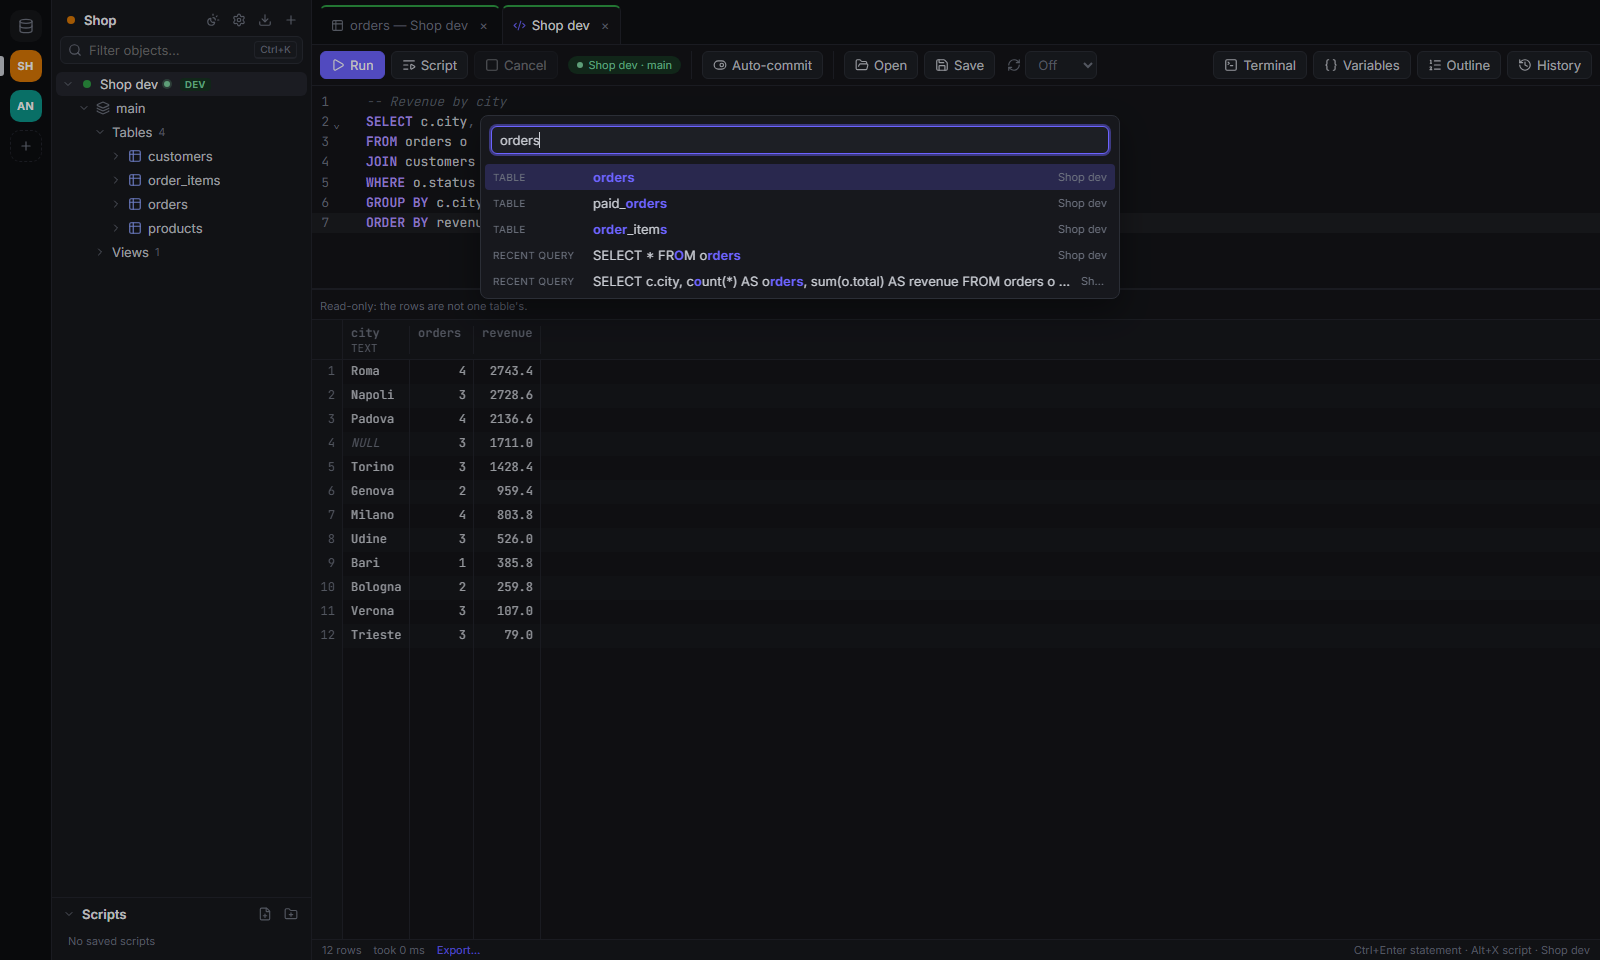
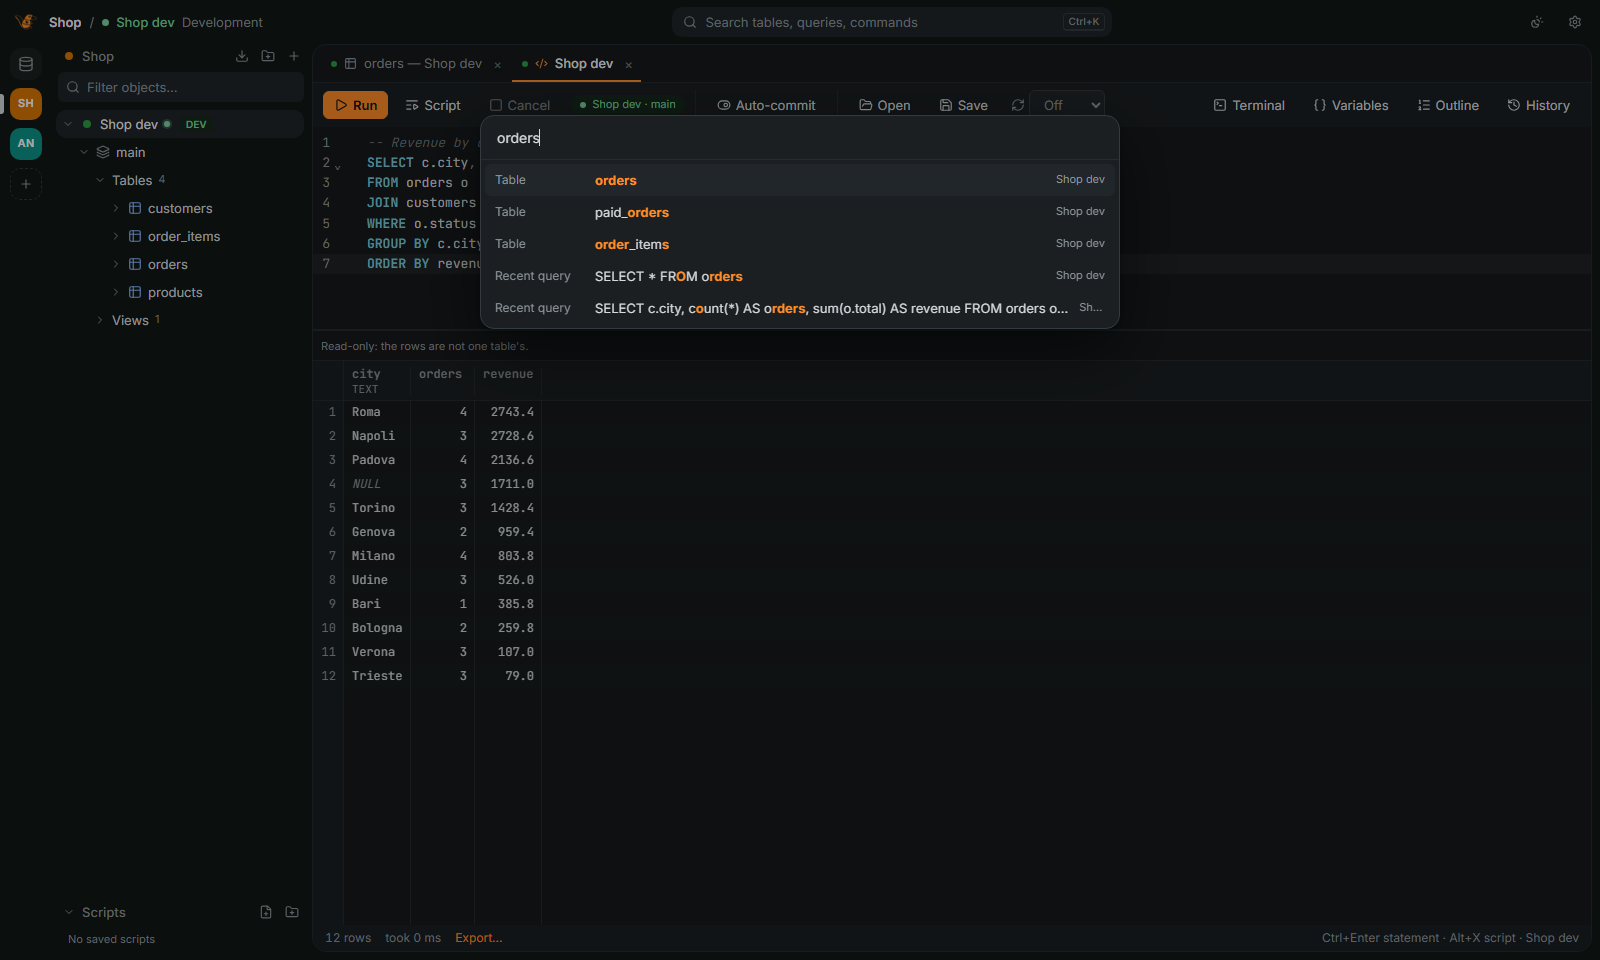
docs: the Cornice frame in README, roadmap and screenshots

diff --git a/docs/ROADMAP.md b/docs/ROADMAP.md
@@ -476,7 +476,11 @@ inclusi, icone Lucide, navigator, tab, toolbar e dialog ridisegnati
 ([spec](superpowers/specs/2026-10-24-grafica-e-progetti-design.md), parte A). Fatti anche i
 **progetti come spazi di lavoro** (parte B): barra dei progetti a sinistra, connessioni in
 più progetti, tab, cronologia, palette e titolo della finestra per progetto, `Ctrl+1`…
-per cambiare progetto, `connections.toml` versione 2.
+per cambiare progetto, `connections.toml` versione 2. Poi la grafica **Cornice**: la cornice
+della finestra (barra superiore, barra dei progetti, navigator) prende la tinta del tipo della
+connessione della scheda attiva (DEV, TEST, PROD) attorno a un foglio arrotondato con il lavoro;
+barra superiore con progetto, connessione e tipo, ricerca che apre la palette, tema e
+impostazioni; schermata di benvenuto con apertura di un file di dati e import delle connessioni.
 
 **Area:** `App.tsx`, `apps/desktop/src/shell/` (tab bar, palette, impostazioni), `styles.css`, `theme.ts`
 **Dipende da:** 0.2, 0.3, 0.7

diff --git a/README.md b/README.md
@@ -252,6 +252,9 @@ methods and fields. `mongodb+srv://` and connection string options go in the Dat
 - **Projects**: a rail of colored squares on the left, one per project (a client, an
   environment, a side job). A project shows only its connections, tabs and recent queries; a
   connection can be in several projects. `Ctrl+1` is All connections, `Ctrl+2`… the projects.
+- **The frame shows where you are**: the bar on top names the project and the connection of
+  the active tab, and the window frame takes the color of its type, green for development,
+  blue for test and red for production.
 - **Command palette** (`Ctrl+K`): actions, connections, tables and recent queries, found by
   typing a few letters.
 - **Themes**: Platypus Dark and Light (what "System" follows), Classic Light and Dark, Nord,
